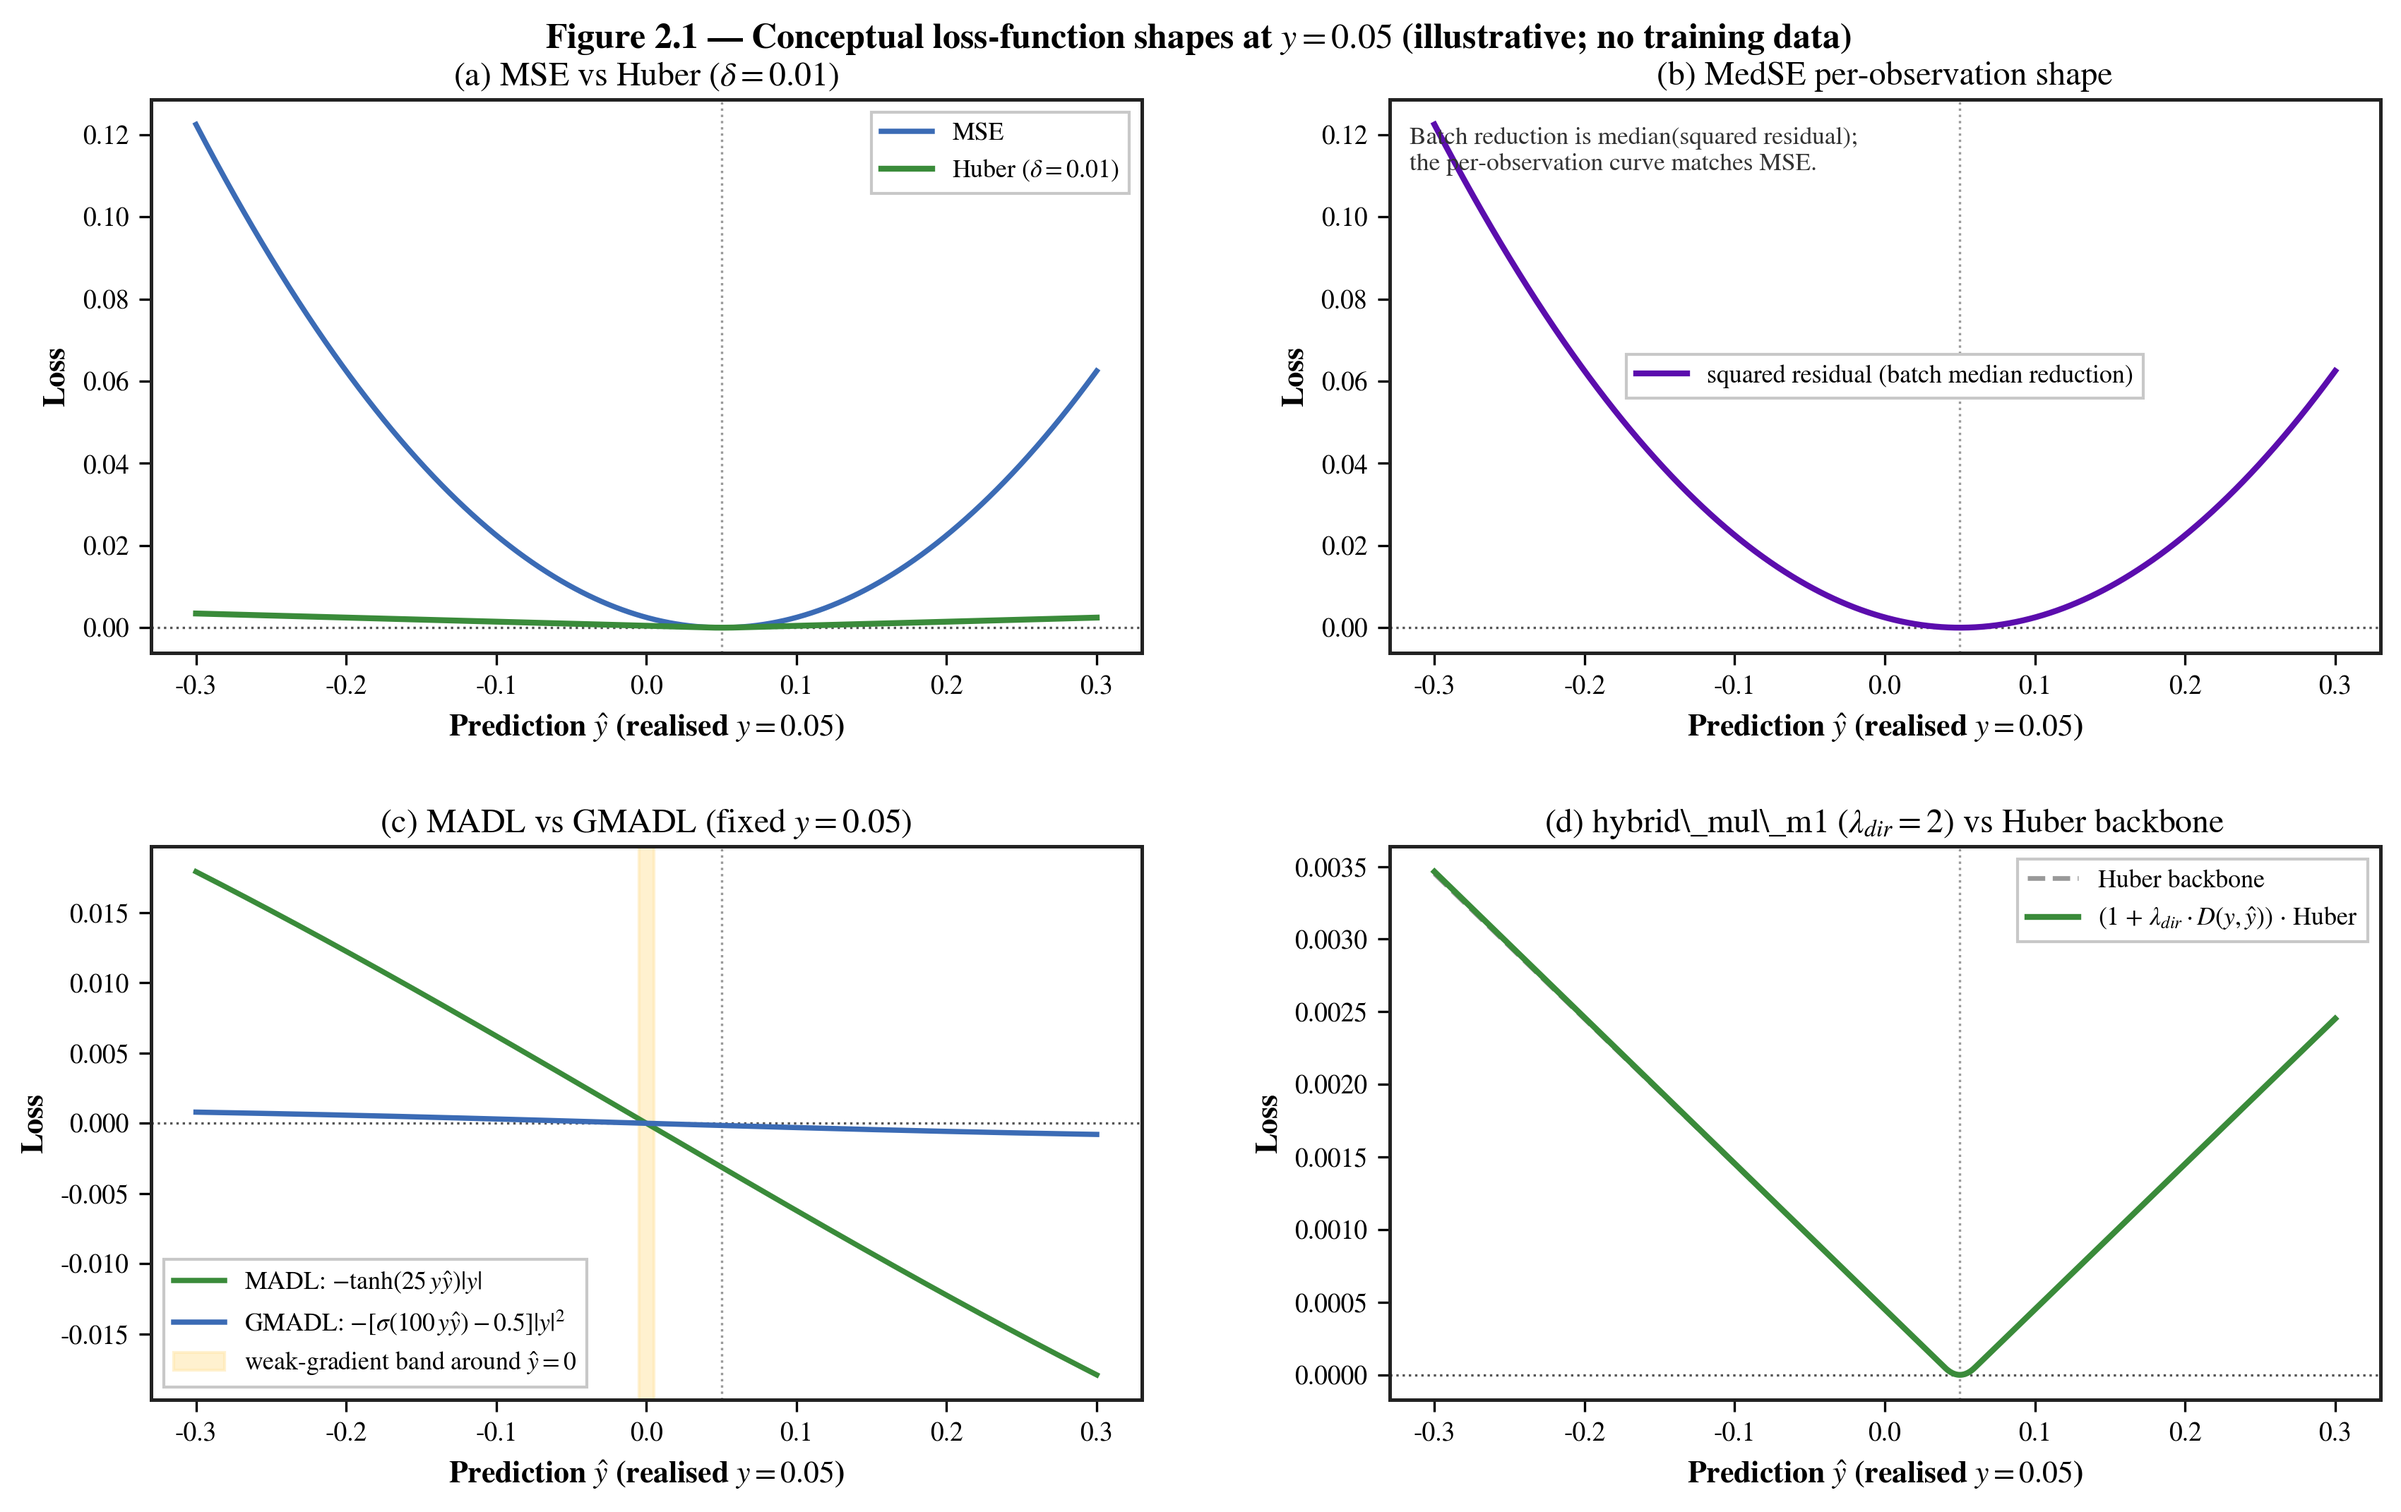
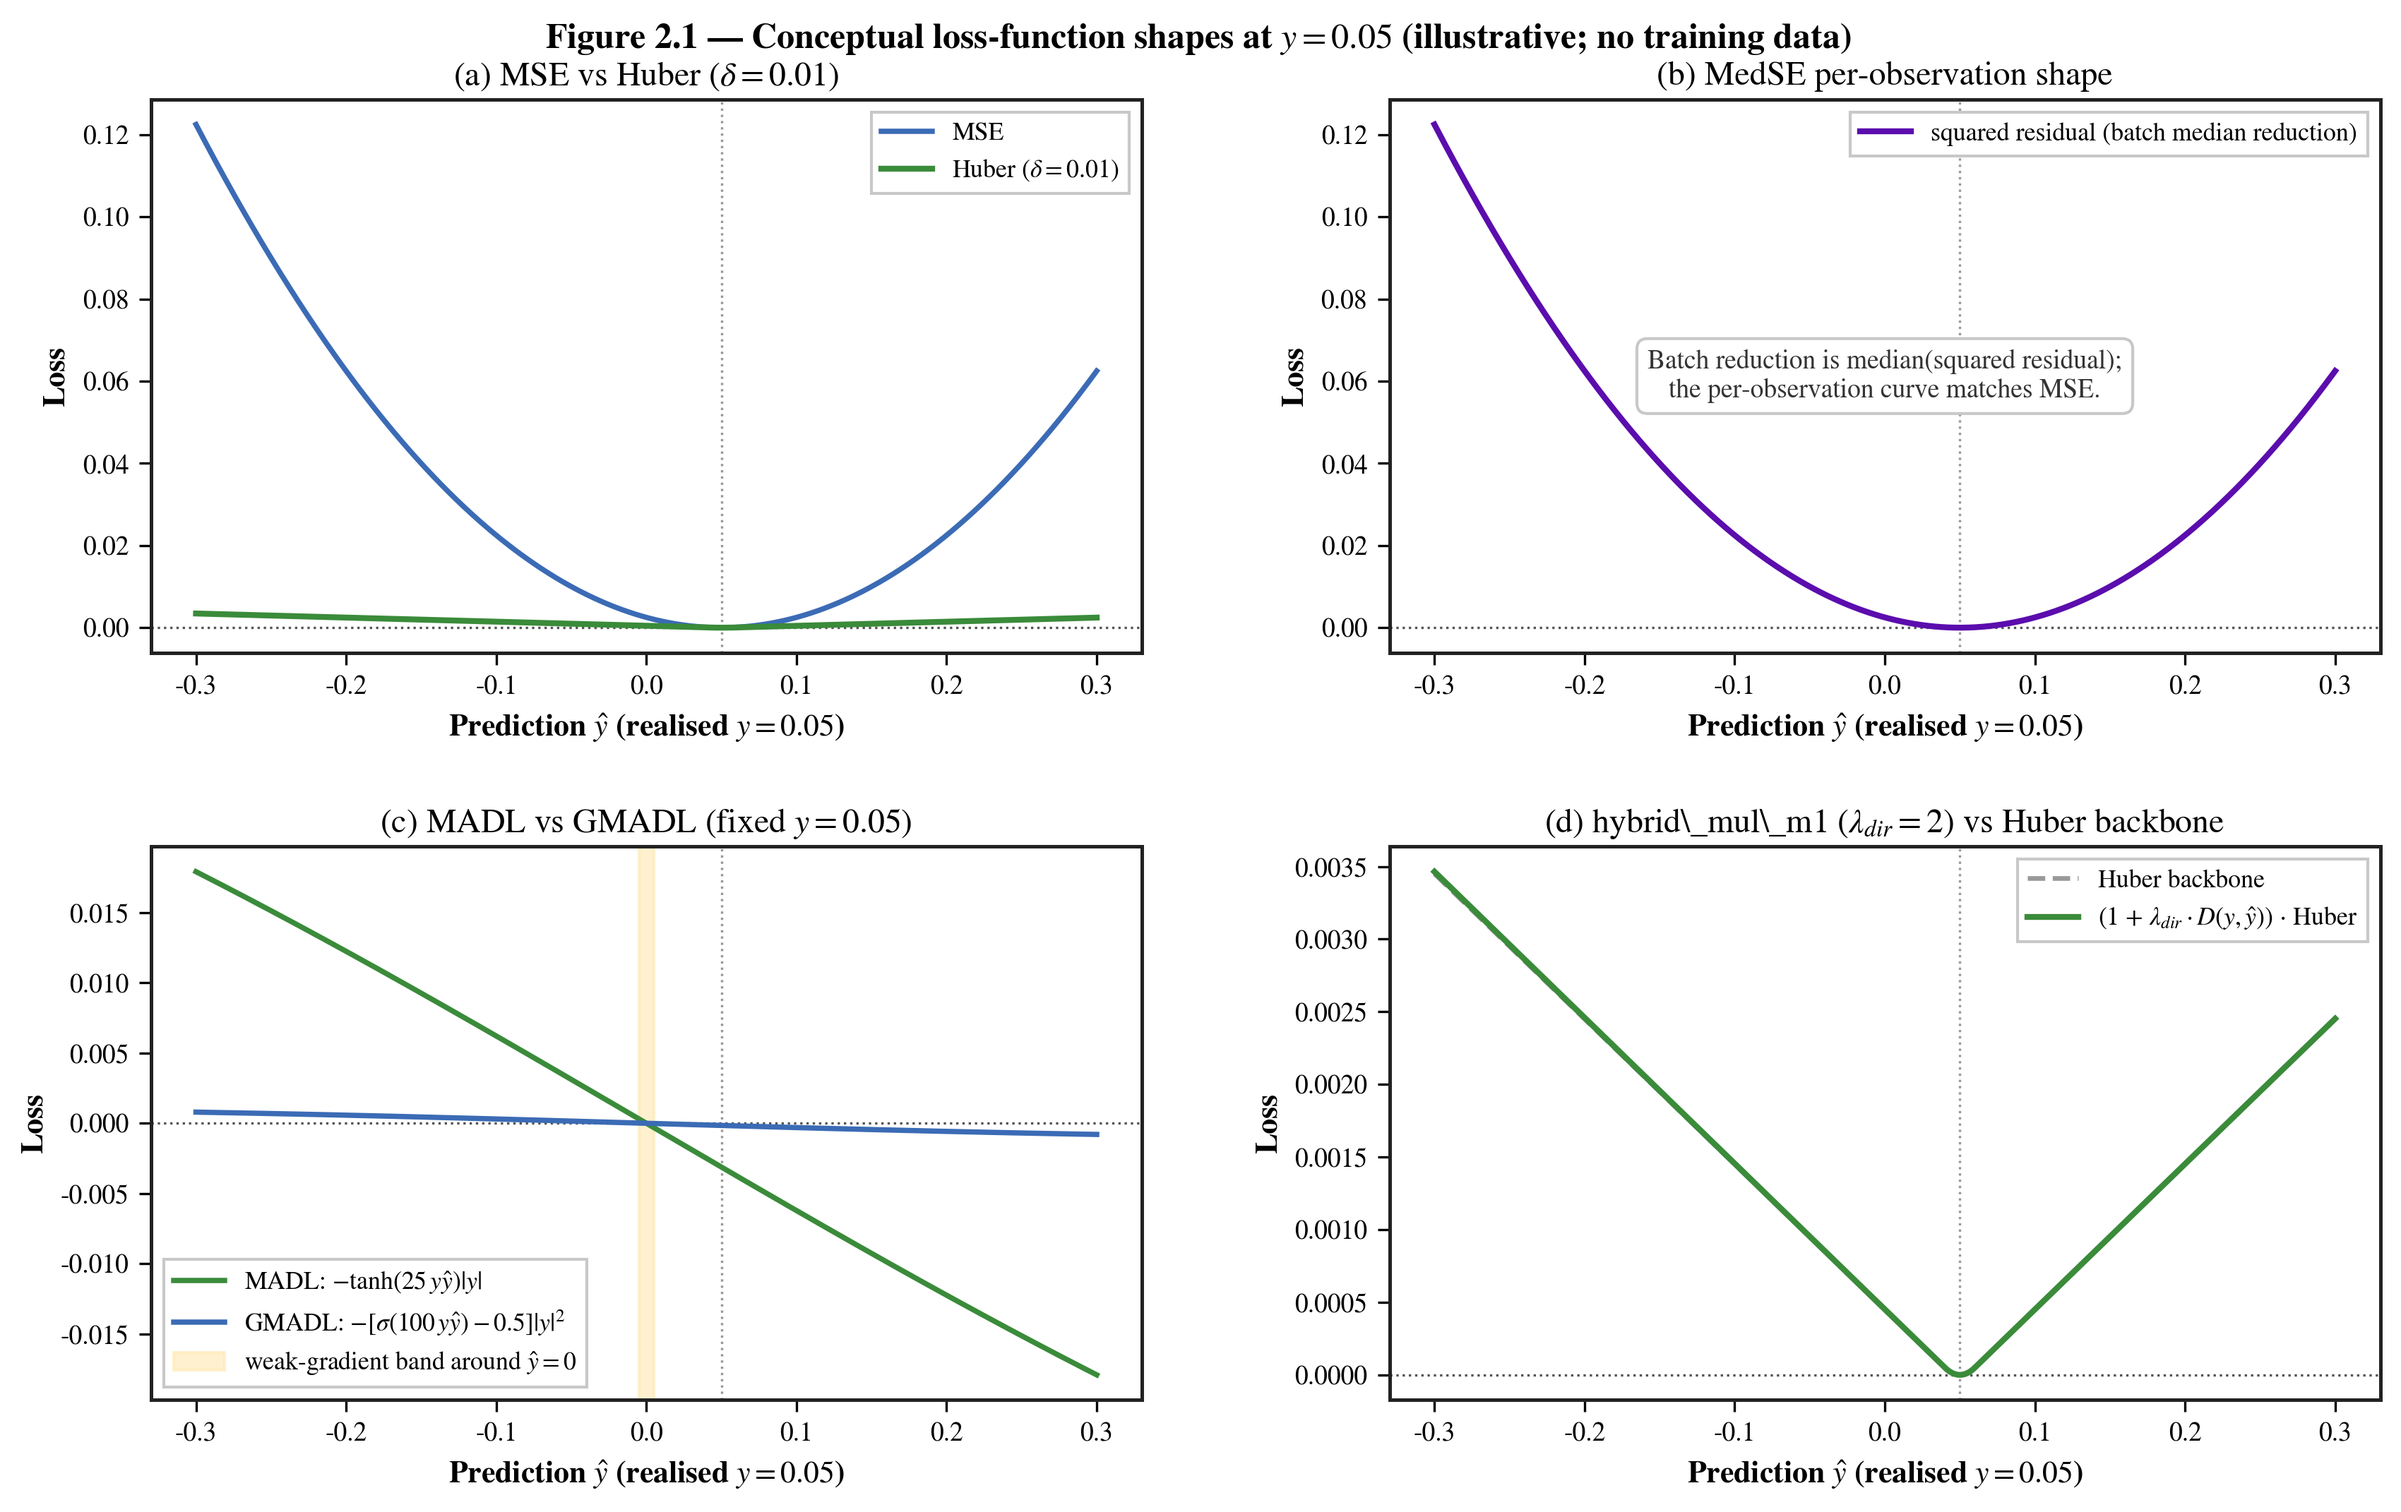
paper: fix Fig 2.1 (b) annotation overlapping curve - move text to centre clear region

Changed region(s): [[0.6859, 0.2157, 0.9041, 0.2773], [0.7482, 0.0616, 0.9976, 0.0924], [0.5924, 0.0924, 0.7482, 0.1232]]

diff --git a/paper/figures/plot_loss_shapes.py b/paper/figures/plot_loss_shapes.py
@@ -136,14 +136,18 @@ def main() -> None:
         yhat,
         [(medse_curve(e), "squared residual (batch median reduction)", C_DYN, 2.0, False)],
     )
+    # Annotation placed in the central clear region (curve is low around y=0.05).
     axs[0, 1].text(
-        0.02,
-        0.95,
-        "Batch reduction is median(squared residual);\nthe per-observation curve matches MSE.",
+        0.50,
+        0.50,
+        "Batch reduction is median(squared residual);\n"
+        "the per-observation curve matches MSE.",
         transform=axs[0, 1].transAxes,
-        fontsize=8.5,
-        va="top",
+        fontsize=9,
+        ha="center",
+        va="center",
         color="#333",
+        bbox=dict(facecolor="white", edgecolor="#C8C8C8", boxstyle="round,pad=0.4"),
     )
 
     # (c) MADL vs GMADL
